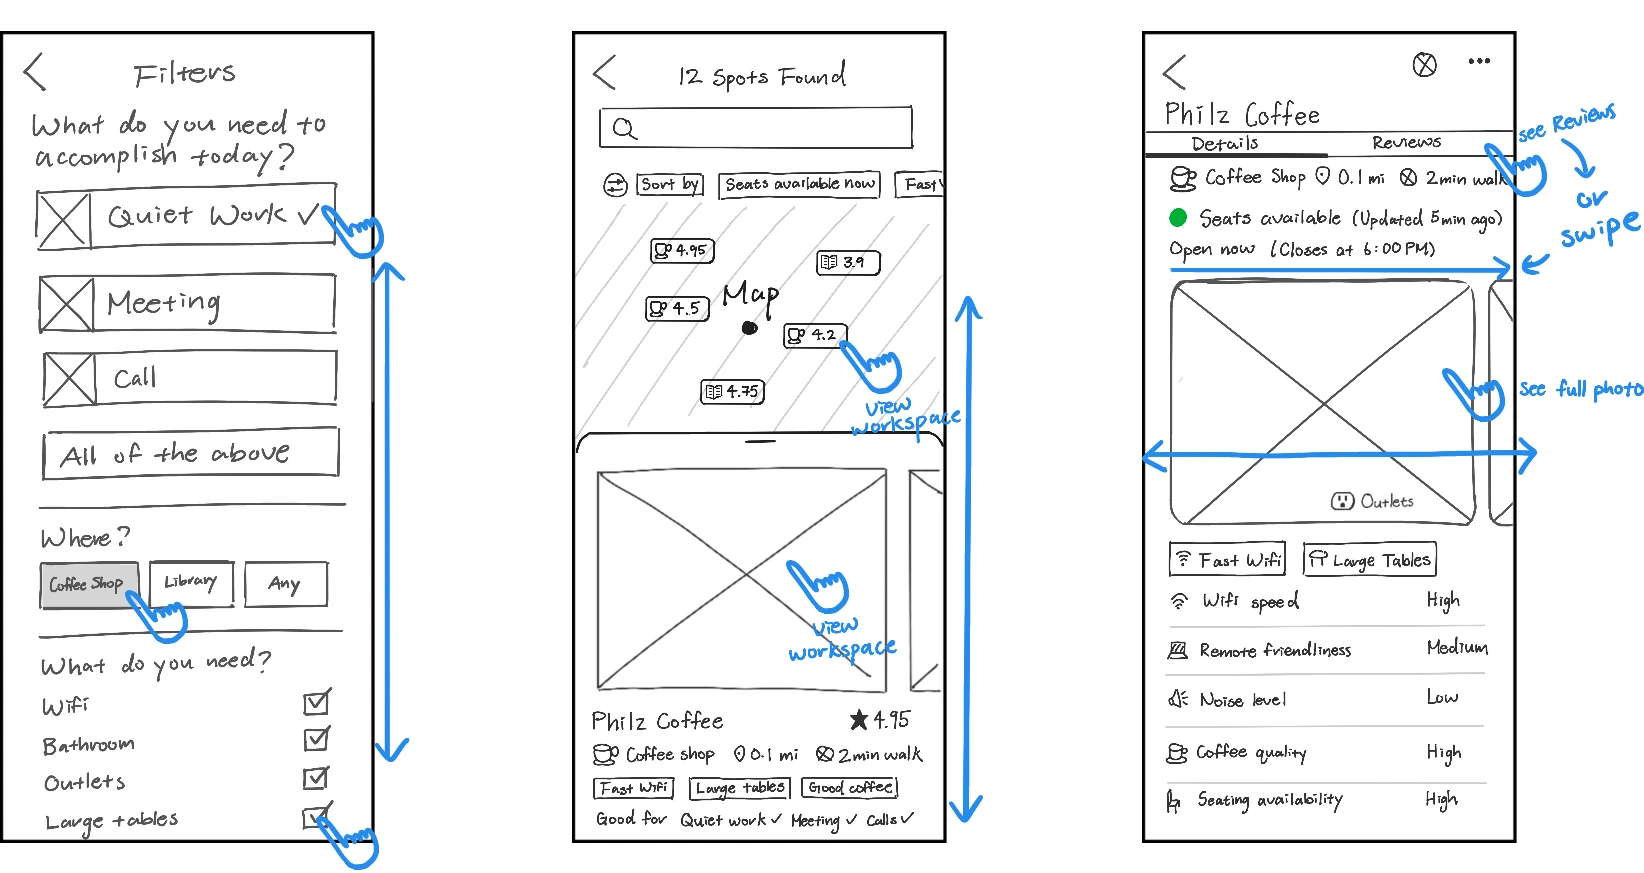
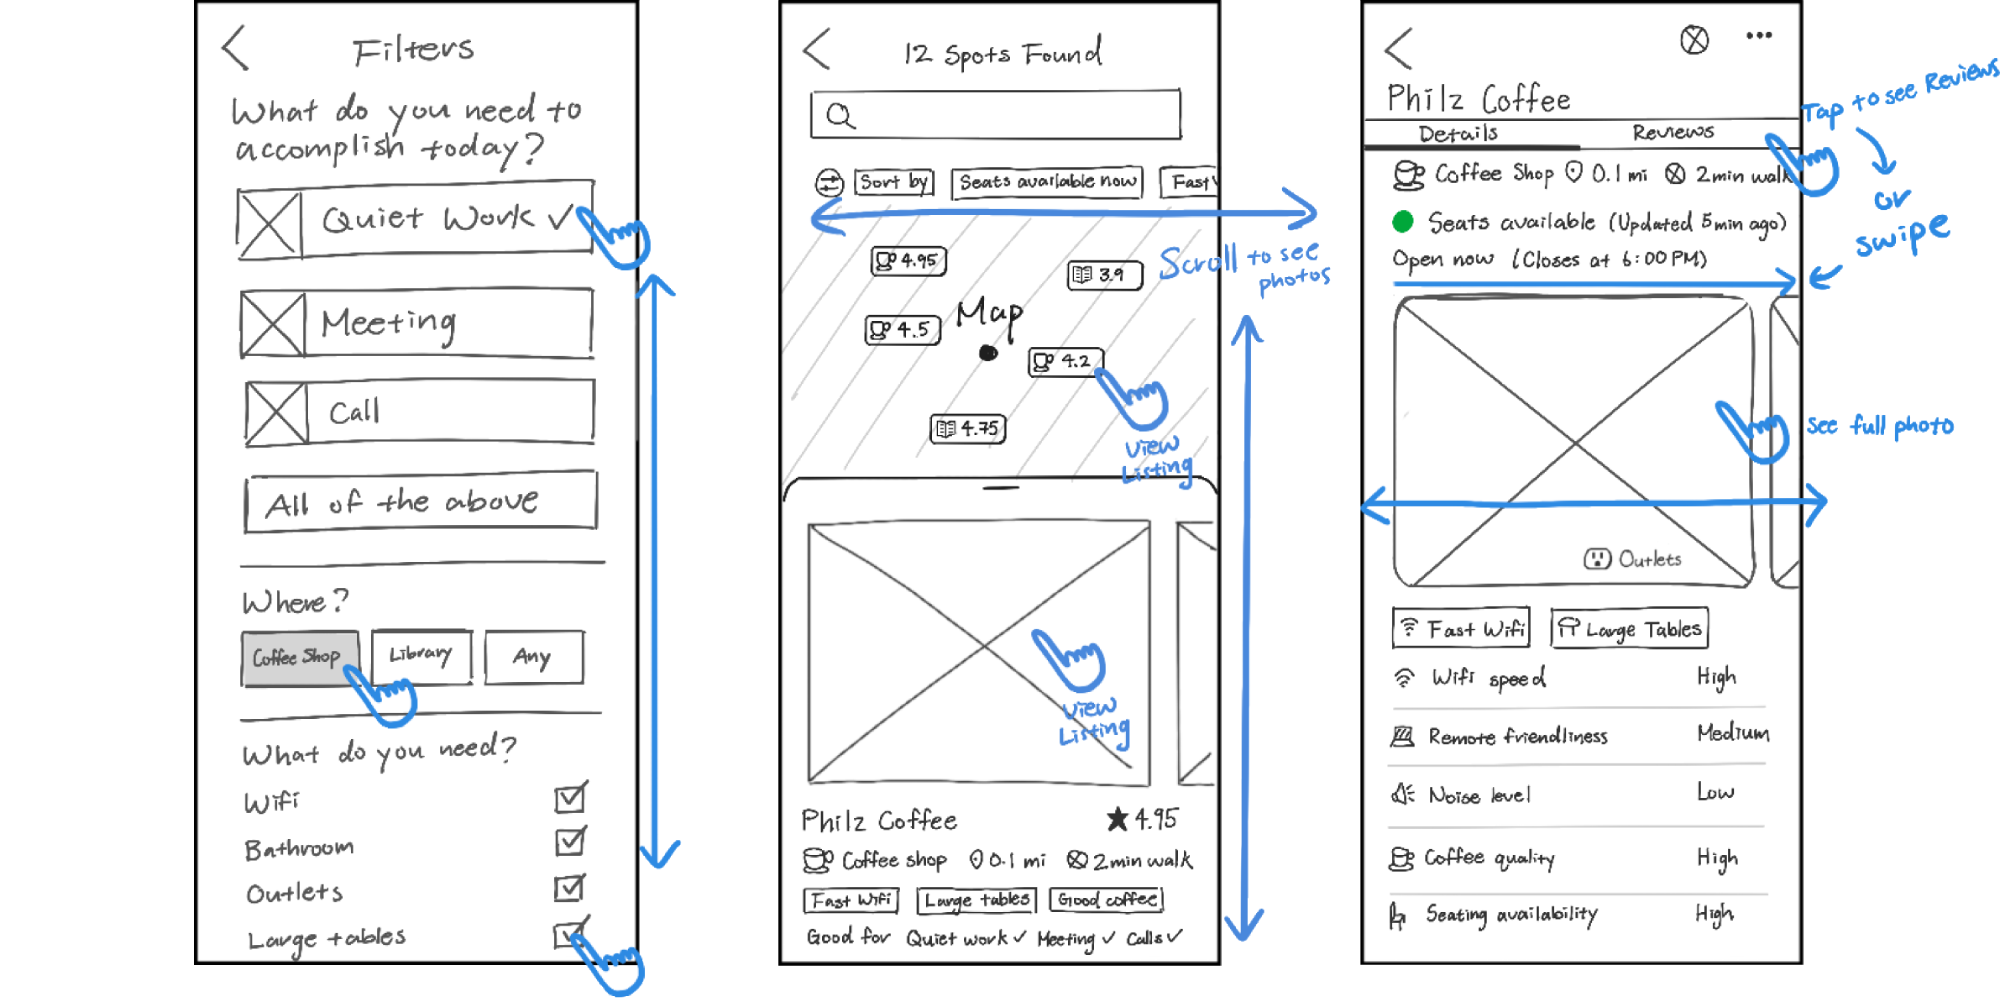
style(postup): adjust image layout for zoomable assets
Sizes the 3-panel storyboard to its container instead of overflowing
it at 108.5%, and swaps in a higher-resolution source so the enlarged
view holds up when zoomed.

Drops .img-prototype-checklist and the img sizing inside the
monetization map wrapper, which the zoom component now handles, and
renames .monetization-map-container to .monetization-map-wrapper.

Claude-Session: https://claude.ai/code/session_01WYQZRkYTs8neHt1PfEi3s4

Changed region(s): [[0.0, 0.0, 1.0, 1.0], [0.9617, 0.0619, 1.0, 0.0928], [0.8066, 0.3711, 0.8376, 0.4021]]

diff --git a/src/scss/pages/postup/_day-05.scss b/src/scss/pages/postup/_day-05.scss
@@ -148,17 +148,12 @@
   }
 }
 
-.monetization-map-container {
+.monetization-map-wrapper {
   display: flex;
   flex-direction: column;
   gap: space(4);
   align-items: center;
   justify-content: center;
-
-  img {
-    width: 90vw;
-    max-width: 1000px;
-  }
 }
 
 .reservation-system {

diff --git a/src/scss/pages/postup/_day-02.scss b/src/scss/pages/postup/_day-02.scss
@@ -118,11 +118,11 @@
 .storyboard-3-panel {
   display: flex;
   width: 90vw;
-  max-width: 60rem;
+  max-width: 55.5rem;
   margin: space(6) auto;
 
   img {
-    width: 108.5%;
+    width: 100%;
     margin: auto;
   }
 }

diff --git a/src/scss/pages/postup/_day-04.scss b/src/scss/pages/postup/_day-04.scss
@@ -2,12 +2,6 @@
 
 $prototype-accordion-bg: $black;
 
-.img-prototype-checklist {
-  display: flex;
-  width: 100%;
-  height: auto;
-}
-
 .img-prototype-v1-wireflow {
   width: 90vw;
   max-width: 80rem;
